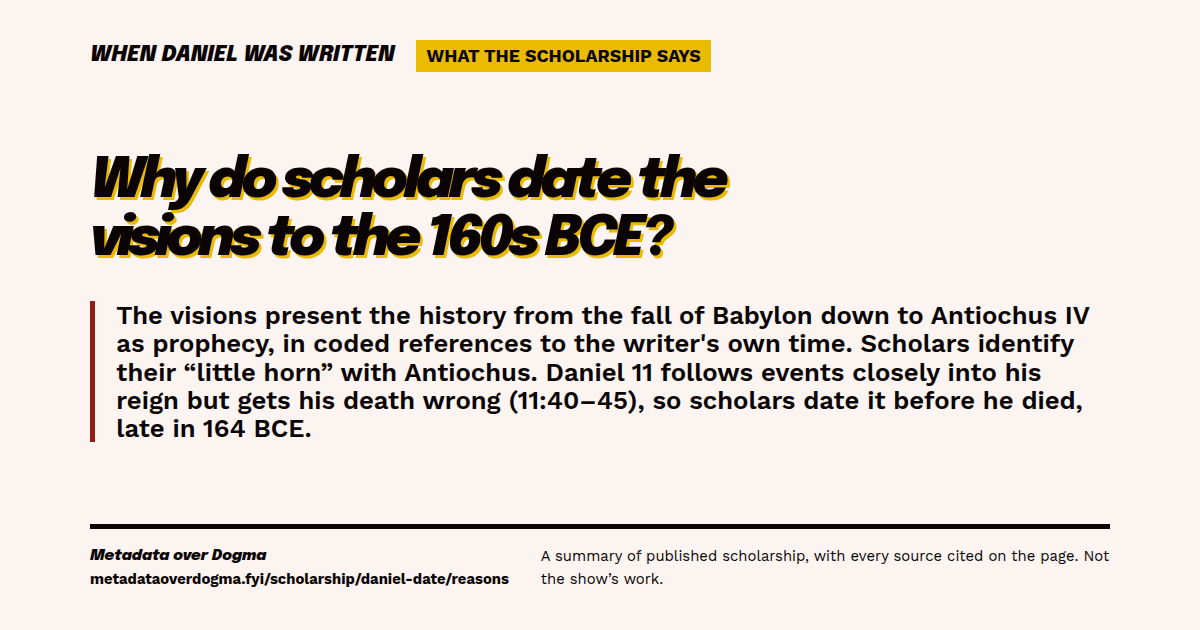
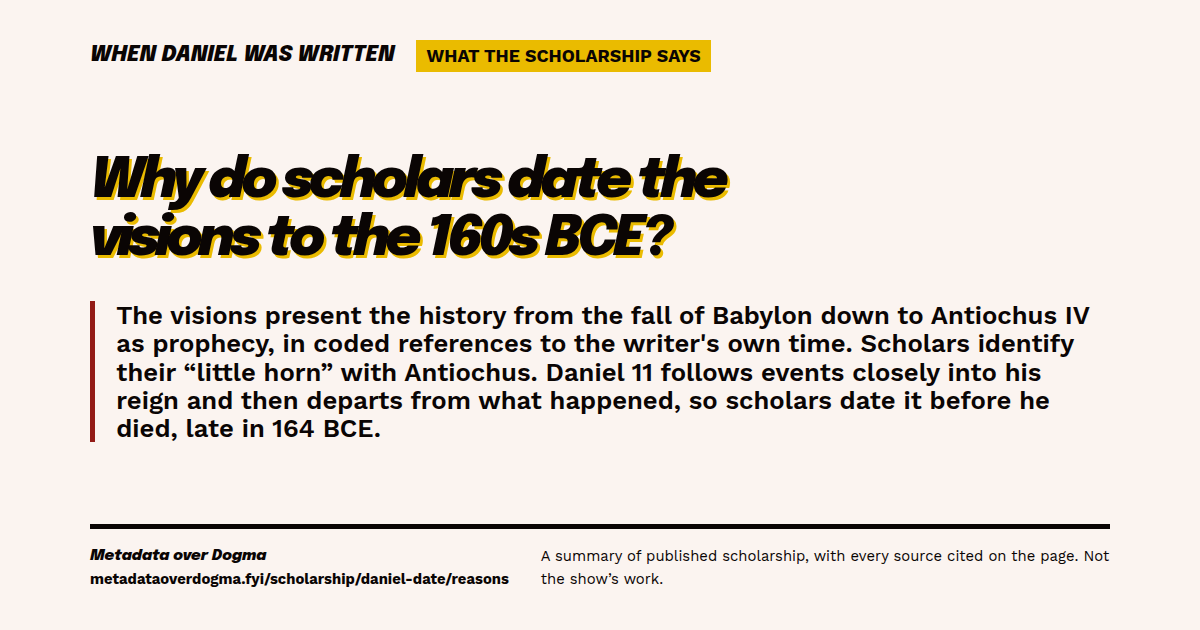
Second agent pass on the daniel-date leads (#182)
Independent pass: 29/29 changed quotes re-matched, none cut. reasons
short narrowed to "departs from what happened" (11:40-45 detail stays
attributed to Coşkun); languages and history text narrowed; Newsom
registry author with Breed; Suchard series. Lead resolutions recorded.

Changed region(s): [[0.0925, 0.6032, 0.8942, 0.6937]]

diff --git a/hugo/content/scholarship/daniel-date.md b/hugo/content/scholarship/daniel-date.md
@@ -100,7 +100,7 @@ statements:
   - id: reasons
     group: "Dating the book"
     question: "Why do scholars date the visions to the 160s BCE?"
-    short: "The visions present the history from the fall of Babylon down to Antiochus IV as prophecy, in coded references to the writer's own time. Scholars identify their “little horn” with Antiochus. Daniel 11 follows events closely into his reign but gets his death wrong (11:40–45), so scholars date it before he died, late in 164 BCE."
+    short: "The visions present the history from the fall of Babylon down to Antiochus IV as prophecy, in coded references to the writer's own time. Scholars identify their “little horn” with Antiochus. Daniel 11 follows events closely into his reign and then departs from what happened, so scholars date it before he died, late in 164 BCE."
     text: "The publisher's summary of Coogan and Chapman's introduction says the visions present the succession of powers from the fall of Babylon to the division of Alexander's empire as future events, with detail growing more vivid toward Antiochus IV; the reader is told his reign will end, but apparently it has not yet, which is why scholars place the book in the second century BCE. Christine Hayes says the author disguises references to contemporary events and people in symbolic visions attributed to a remote past, and identifies the boastful little horn with Antiochus. Kelly Murphy's Bible Odyssey article calls it the scholarly consensus that the little horn is a coded way to discuss Antiochus IV, who desecrated the Jerusalem temple; the HarperCollins Bible Dictionary says he is usually identified with it. Amy Merrill Willis notes that the Maccabees resumed temple worship in the winter of 164 BCE and that Antiochus was dead by early 163 BCE. Carol Newsom notes that Porphyry had already observed that the prophecy of Daniel 11 is a strangely accurate account of history up to Antiochus IV, at which point it diverges sharply from known events; she dates the later chapters before the end of 164 BCE, when Antiochus was killed in Persia. Altay Coşkun writes that Daniel 11:40–45 describes the king's final battle and death in details remote from what happened, so his death toward the end of 164 BCE gives a firm latest date, and that most scholars, drawing on this chapter, have dated the composition to around 166 BCE. Coşkun himself argues that this latest date binds only chapters 10–11, and that chapters 7–9 and 12 were written after the temple was rededicated in December 164 BCE."
     cites:
       - source: coogan-brief-4e-summary-ch25
@@ -276,7 +276,7 @@ statements:
     group: "How the book was made"
     question: "What languages is Daniel written in?"
     short: "Hebrew and Aramaic: Daniel 2:4b–7:28 is in Aramaic, the rest in Hebrew. The switch does not line up with the book's division into tales and visions."
-    text: "Andrew Perrin lists Daniel 2:4b–7:28 among the biblical texts composed in Aramaic. Daniel Smith-Christopher names the two languages as the first of the book's problems, alongside its two kinds of literature. The publisher's summary of Coogan and Chapman's introduction says the Aramaic sections suggest that the text may be a composite. H. J. M. van Deventer says the two languages do not correspond with the two literary types, court tales and visions, a problem he counts among those scholars have not yet been able to solve. Carol Newsom likewise notes that the two languages do not coincide with the book's two main genres, says the theories offered for this odd pattern are often more ingenious than persuasive, and calls the most persuasive and commonly held one an Aramaic collection of tales expanded in the Maccabean period by visions written largely in Hebrew."
+    text: "Andrew Perrin lists Daniel 2:4b–7:28 among the biblical texts composed in Aramaic. Daniel Smith-Christopher names the two languages as the first of the book's problems, alongside its two kinds of literature. The publisher's summary of Coogan and Chapman's introduction says the Aramaic sections suggest that the text may be a composite. H. J. M. van Deventer says the two languages do not correspond with the two literary types, court tales and visions, a problem he counts among those scholars have not yet been able to solve. Carol Newsom likewise notes that the two languages do not coincide with the book's two main genres, says that many of the theories offered for this odd pattern are more ingenious than persuasive, and calls the most persuasive and commonly held one an Aramaic collection of tales expanded in the Maccabean period by visions written largely in Hebrew."
     cites:
       - source: perrin-bo-aramaic-dss
         locator: "opening paragraph"
@@ -313,7 +313,7 @@ statements:
     group: "How the book was made"
     question: "Does Daniel get the history of the Babylonian and Persian kings right?"
     short: "Not reliably, scholars say: Belshazzar was never king, no Median king Darius is known to history, and the early chapters contain other historical difficulties."
-    text: "Christine Hayes says Belshazzar was never king but a prince regent, defeated by Cyrus, not Darius, that the Median king Darius is unknown to history, and that these inaccuracies are a sign of a much later writer looking back. Amy Merrill Willis counts Daniel's seventy-year career under Babylonian, Median and Persian kings among the book's historical difficulties, and says Nebuchadnezzar's exile in chapter 4 may have been based on Nabonidus, adding that an account outside the Bible has Nabonidus consulting a Jewish seer. Daniel Smith-Christopher and Lawrence Wills note that a story called the Prayer of Nabonidus, found among the Dead Sea Scrolls, resembles the tales of Daniel 1–6. John J. Collins says any attempt to draw historical information from the tales meets insuperable problems: the opening verse dates a siege of Jerusalem to Jehoiakim's third year (606 BCE), though Nebuchadnezzar did not besiege the city until 598/597 and Jehoiakim died before the siege; Belshazzar, son of Nabonidus, governed Babylon in his father's absence but was never king; and no “Darius the Mede” is known to history. Carol Newsom says scholars recognized a century ago that Belshazzar was the son of Nabonidus, not Nebuchadnezzar, and that chapter 4 recasts Nabonidus's ten-year absence from Babylon; she adds that the Darius story was probably first told of the Persian king Darius I."
+    text: "Christine Hayes says Belshazzar was never king but a prince regent, defeated by Cyrus, not Darius, that the Median king Darius is unknown to history, and that these inaccuracies are a sign of a much later writer looking back. Amy Merrill Willis counts Daniel's seventy-year career under Babylonian, Median and Persian kings among the book's historical difficulties, and says Nebuchadnezzar's exile in chapter 4 may have been based on Nabonidus, adding that an account outside the Bible has Nabonidus consulting a Jewish seer. Daniel Smith-Christopher and Lawrence Wills note that a story called the Prayer of Nabonidus, found among the Dead Sea Scrolls, resembles the tales of Daniel 1–6. John J. Collins says any attempt to draw historical information from the tales meets insuperable problems: the opening verse dates a siege of Jerusalem to Jehoiakim's third year (606 BCE), though Nebuchadnezzar did not besiege the city until 598/597 and Jehoiakim died before the siege; Belshazzar, son of Nabonidus, governed Babylon in his father's absence but was never king; and no “Darius the Mede” is known to history. Carol Newsom says scholars recognized by the turn of the twentieth century that Belshazzar was the son of Nabonidus, not Nebuchadnezzar, and that chapter 4 recasts Nabonidus's ten-year absence from Babylon; she adds that there is evidence the Darius story was first told of the Persian king Darius I."
     cites:
       - source: hayes-rlst145-l23
         locator: "ch. 5 [00:35:21]"
